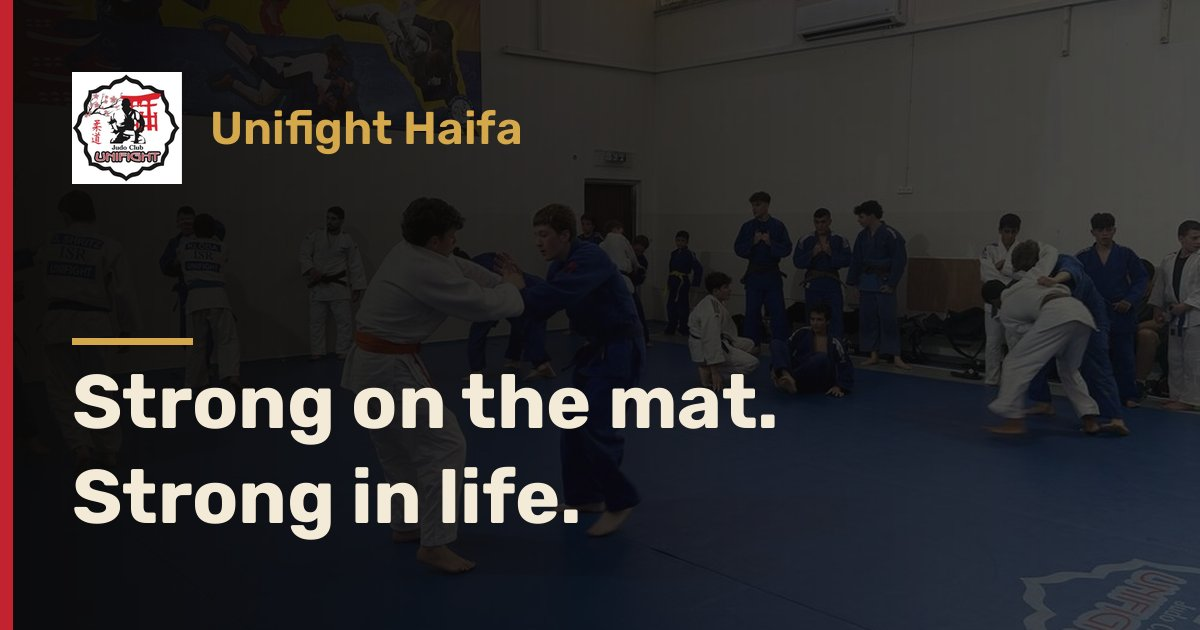
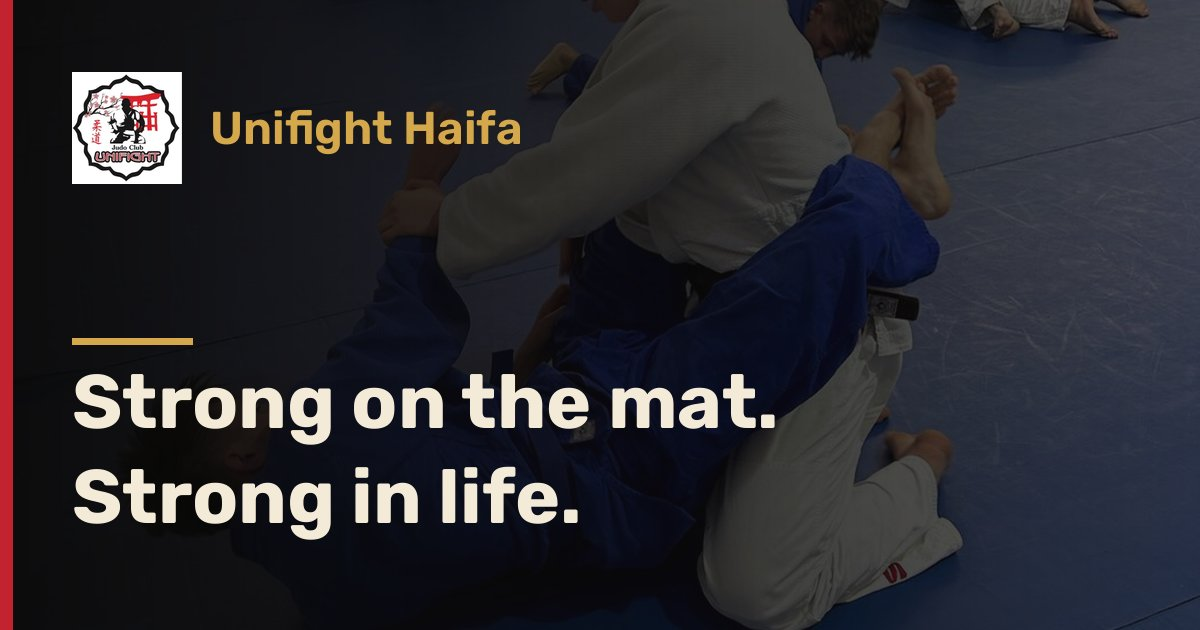
Share image: background without readable name patches

diff --git a/scripts/landing/og.py b/scripts/landing/og.py
@@ -12,7 +12,7 @@ PUB = R / "public"
 C = json.loads((R / "content/site.json").read_text())
 FONT_URL = "https://github.com/google/fonts/raw/main/ofl/rubik/Rubik%5Bwght%5D.ttf"
 FONT = Path.home() / ".cache/unifight/Rubik.ttf"
-BG = "img-night/train-sukkot-randori.jpg"
+BG = "img-night/groundwork.jpg"
 W, H, PAD = 1200, 630, 72
 INK, GOLD, RED, PAPER = (10, 9, 8), (212, 168, 75), (194, 35, 46), (243, 234, 216)
 MAX_BYTES = 600_000  # WhatsApp drops previews above this
